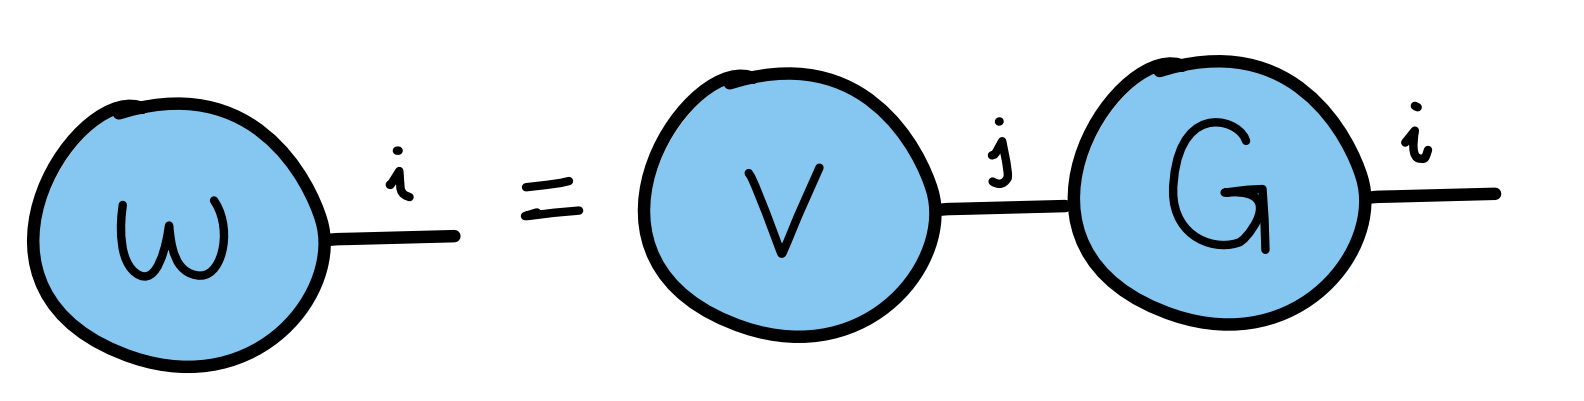
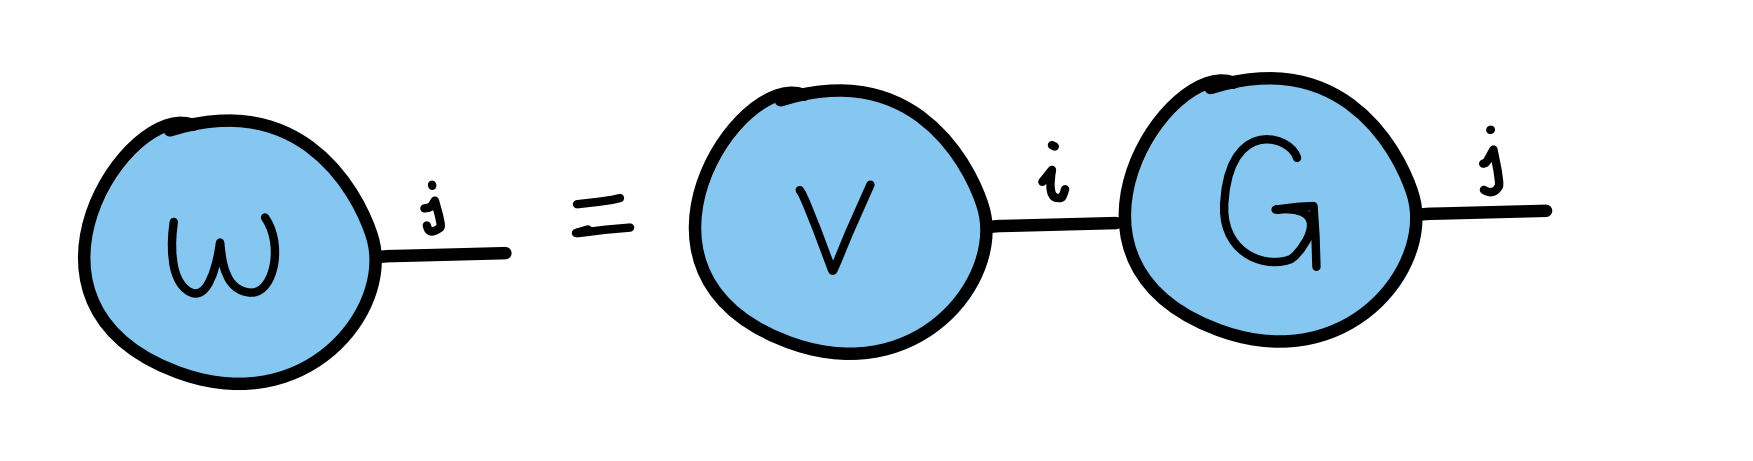
include contraction tree image
fix matrix-vector figure and tensor equation

Changed region(s): [[0.0, 0.1197, 0.959, 0.9277], [0.8662, 0.2394, 0.8971, 0.2693], [0.2475, 0.3591, 0.2784, 0.389]]

diff --git a/demonstrations/tutorial_tn_basics.py b/demonstrations/tutorial_tn_basics.py
@@ -22,9 +22,6 @@ Where each :math:`i_n` is an *index* of dimension :math:`d_n` - it can take valu
 For example, a scalar :math:`s` is a rank-0 tensor, a vector :math:`v_i` is a rank-1 tensor and a matrix :math:`G_{i,j}` is a rank-2 tensor.
     
 A beautiful and powerful tool accompanying tensors (networks) is their graphical language representation. The diagram of a tensor is simply a geometric shape with a leg sticking out of it for every index in the tensor. For example,
-
-.. math::
-    T_{i,j,k,l} = 
     
 .. figure:: ../_static/demonstration_assets/tn_basics/01-tensor.png
     :align: center
@@ -285,9 +282,11 @@ print(f"Computation cost for A(BC) contraction: {average_time_ms:.8f} ms")
 # 
 # First, we set up the framework of the problem. While multiway contractions - contractions between more than 2 tensors at a time - are possible, we will consider only pairwise contractions since the former can always be decomposed in terms of the latter. In addition, contracting a tensor network need not result in a single tensor. However, here we consider only the single tensor case as it underlies the more general scenario [#Gray2021]_. 
 # 
-# The underlying idea behind finding a contraction path is based on the construction of the computational graph, i.e., a rooted binary tree - also known as the **contraction tree** - that specifies the sequence of pairwise contractions to be executed. In this tree structure, a leaf node corresponds to a tensor from the original network and the pairwise contractions give rise to the intermediate tensors corresponding to the rest of the nodes in the tree. 
+# The underlying idea behind finding a contraction path is based on the construction of the computational graph, i.e., a rooted binary tree - also known as the **contraction tree** - that specifies the sequence of pairwise contractions to be executed. In this tree structure, a leaf node corresponds to a tensor from the original network (blue tensors) and the pairwise contractions (red lines) give rise to the intermediate tensors (red tensors) corresponding to the rest of the nodes in the contraction tree. 
 # 
-# TODO: here include a drawing similar to one in Fig2.a of https://journals.aps.org/prx/pdf/10.1103/PhysRevX.14.011009
+# .. figure:: ../_static/demonstration_assets/tn_basics/10-contraction-tree.png
+#     :align: center
+#     :width: 50%
 # 
 # Transforming a tensor network with an arbitrary structure into this binary tree can be achieved by a *tree embedding* of the tensor network graph [#Bienstock1990]_. Thus, optimization of the contraction path is equivalent to a search over tree embeddings of the network.
 # 
